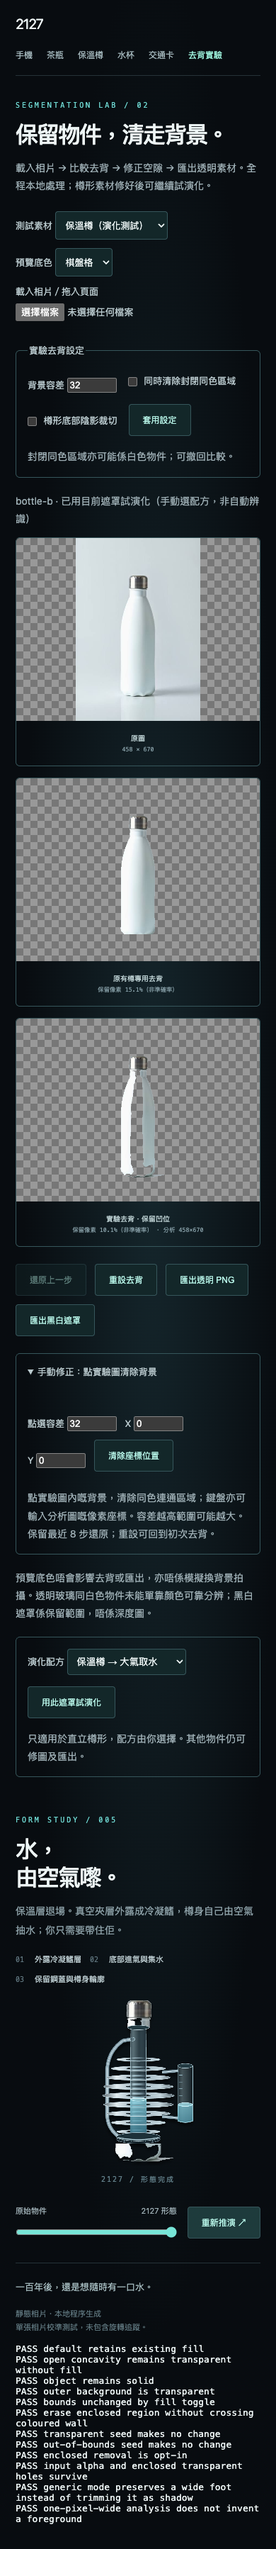
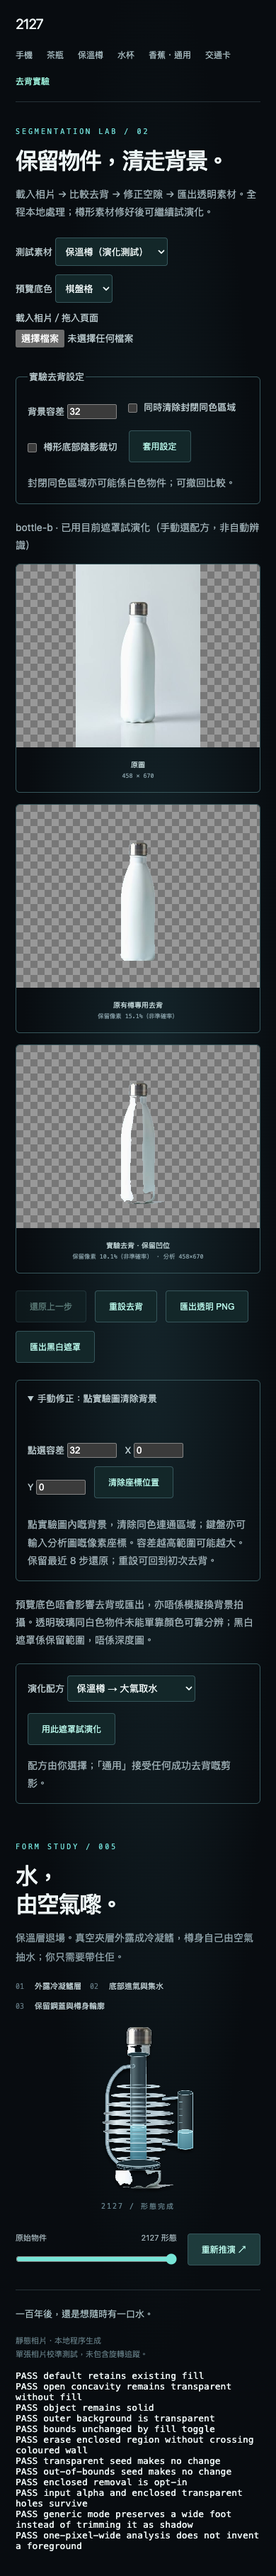
feat(studies): any photo that segments now evolves
新增 generic() 通用配方：唔靠配方，靠量到嘅剪影。沿長軸取平滑橫切面
（maskProfile + 3 次平滑），保留兩端相片、中間外殼退場、沿原輪廓長出
承力外框（會超出原剪影）同縮到一半橫切面嘅內核；內核表面係原相本身。

唔係自動辨識：士多啤梨 0.91、玩具 0.97、水杯 0.73 全部落喺闊身容器
比例範圍，淨靠比例會套錯配方。所以新相片一律預設通用配方，專屬配方
人手揀。守門只再拒絕去背失敗。

通用路徑用唔填行嘅去背（填行係直立樽專用修補，會填實香蕉凹位），
並且同時按闊同高縮放，因為外框企喺原輪廓外面。

新入口 studies.html?object=banana。
lab 12 + studies 51 + phone 9 + legacy 67 = 139 全綠。

Claude-Session: https://claude.ai/code/session_01Xbqts8uz557AYsPHVhYA2D

diff --git a/studies.html b/studies.html
@@ -13,27 +13,27 @@
 <link rel="stylesheet" href="calibration.css">
 </head>
 <body><main>
-<header><div class="mark">2127<span>100 YEARS LATER</span></div><nav aria-label="物件測試" style="display:flex;gap:20px;flex-wrap:wrap"><a href="phone.html">手機</a><a href="studies.html?object=bottle" id="nav-bottle">茶瓶</a><a href="studies.html?object=bottle-b" id="nav-bottle-b">保溫樽</a><a href="studies.html?object=cup" id="nav-cup">水杯</a><a href="studies.html?object=suica" id="nav-suica">交通卡</a><a href="studies.html?lab=1" id="nav-lab">去背實驗</a></nav></header>
+<header><div class="mark">2127<span>100 YEARS LATER</span></div><nav aria-label="物件測試" style="display:flex;gap:20px;flex-wrap:wrap"><a href="phone.html">手機</a><a href="studies.html?object=bottle" id="nav-bottle">茶瓶</a><a href="studies.html?object=bottle-b" id="nav-bottle-b">保溫樽</a><a href="studies.html?object=cup" id="nav-cup">水杯</a><a href="studies.html?object=banana" id="nav-banana">香蕉・通用</a><a href="studies.html?object=suica" id="nav-suica">交通卡</a><a href="studies.html?lab=1" id="nav-lab">去背實驗</a></nav></header>
 <section class="hero"><div class="copy"><div class="eyebrow">FORM STUDY / <span id="number">003</span></div><h1 id="title"></h1><p class="intro" id="intro"></p><div class="specs" id="specs"></div></div>
 <figure><canvas id="view" width="1456" height="970" role="img" aria-label="原物件與未來形態比較"></canvas><figcaption id="phase" aria-live="polite">準備形態推演</figcaption></figure></section>
 <div class="controls"><div class="compare"><div class="labels"><label for="evolution">原始物件</label><span>2127 形態</span></div><input id="evolution" aria-label="原始物件與 2127 形態比較" type="range" min="0" max="100" value="100" disabled></div><button id="replay" disabled>重新推演 ↗</button></div>
 <div class="controls" id="loadwrap" hidden style="flex-wrap:wrap;gap:14px">
 <label class="filebtn">放一張新相片入嚟 …<input type="file" id="file" accept="image/jpeg,image/png,image/webp" hidden></label>
-<span style="display:flex;align-items:center;gap:8px;flex-wrap:wrap"><span class="hint">配方</span><button class="rbtn" data-r="bottle" aria-pressed="false">茶瓶・培養循環</button><button class="rbtn" data-r="flask" aria-pressed="false">鋼樽・大氣取水</button><button class="rbtn" data-r="cup" aria-pressed="false">闊身容器・懸掛內膽</button></span>
-<span class="hint" id="loadhint">或直接將相片拖入頁面・單一物件・乾淨漸層背景・配方要自己揀</span></div>
+<span style="display:flex;align-items:center;gap:8px;flex-wrap:wrap"><span class="hint">配方</span><button class="rbtn" data-r="bottle" aria-pressed="false">茶瓶・培養循環</button><button class="rbtn" data-r="flask" aria-pressed="false">鋼樽・大氣取水</button><button class="rbtn" data-r="cup" aria-pressed="false">闊身容器・懸掛內膽</button><button class="rbtn" data-r="generic" aria-pressed="false">通用・輪廓推演</button></span>
+<span class="hint" id="loadhint">或直接將相片拖入頁面・新相片預設用通用配方・專屬配方要自己揀</span></div>
 <div class="controls" id="elevwrap" hidden><div class="compare"><div class="labels"><label for="elevation">鏡頭：正面</label><span>斜視 45°</span></div><input id="elevation" aria-label="鏡頭仰角" type="range" min="0" max="100" value="0"></div><span style="font:10px ui-monospace,monospace;color:#5f757e;white-space:nowrap">原型・程序幾何重新投影</span></div>
 <footer><p class="kept" id="kept"></p><p>靜態相片・本地程序生成<br>單張相片校準測試，未包含旋轉追蹤。</p></footer><pre id="checks" hidden></pre>
 </main><script src="segmentation.js"></script><script src="calibration.js"></script><script>
 'use strict';
-const SRC={bottle:'assets/bottle-source.webp','bottle-b':'assets/bottle-b-source.jpeg',cup:'assets/segmentation/water.jpg',suica:'assets/suica-source.jpg'};
+const SRC={bottle:'assets/bottle-source.webp','bottle-b':'assets/bottle-b-source.jpeg',cup:'assets/segmentation/water.jpg',banana:'assets/segmentation/banana.jpeg',suica:'assets/suica-source.jpg'};
 const Q=new URLSearchParams(location.search),kind=!Q.has('lab')&&SRC[Q.get('object')]?Q.get('object'):'bottle',family=kind==='suica'?'suica':'bottle';
-const COPY={cup:{number:'006',title:'一啖嘅<br>溫度。',intro:'杯壁退場。剩返就口嘅杯緣同承座，中間換成懸掛內膽同三條調溫臂；飲品淨係喺你手上嗰陣先保住溫度。',specs:['懸掛式內膽','三臂調溫葉片','保留杯緣與承座'],kept:'一百年後，還是想飲啖啱溫度嘅嘢。'},flask:{number:'005',title:'水，<br>由空氣嚟。',intro:'保溫層退場。真空夾層外露成冷凝鰭，樽身自己由空氣抽水；你只需要帶住佢。',specs:['外露冷凝鰭層','底部進氣與集水','保留鋼蓋與樽身輪廓'],kept:'一百年後，還是想隨時有一口水。'},bottle:{number:'003',title:'一口茶，<br>一個循環。',intro:'拋棄式瓶身退場。保留瓶口與茶液，讓培養、過濾與補水成為同一件容器。',specs:['循環培養艙','相連過濾莢','保留瓶口與茶液'],kept:'一百年後，還是為了那一口茶。'},suica:{number:'004',title:'通行，<br>隨身而行。',intro:'卡片縮成腕上的通行核心。玉色帶體環抱手腕，熟悉的識別面陪你走過下一道門。',specs:['開口式腕環','無接觸感應端','保留原卡識別面'],kept:'一百年後，還是想順利回家。'}};
+const COPY={generic:{number:'000',title:'冇專屬配方，<br>都有下一代。',intro:'呢件嘢未有為佢寫嘅配方，所以只用量到嘅輪廓推演：兩端保留原件，中間外殼退場，換成沿住原輪廓長出嘅承力骨架同一個縮細嘅內核。',specs:['由輪廓量出嘅骨架','保留兩端原件','外露縮細內核'],kept:'一百年後，佢仲係做返同一件事。'},cup:{number:'006',title:'一啖嘅<br>溫度。',intro:'杯壁退場。剩返就口嘅杯緣同承座，中間換成懸掛內膽同三條調溫臂；飲品淨係喺你手上嗰陣先保住溫度。',specs:['懸掛式內膽','三臂調溫葉片','保留杯緣與承座'],kept:'一百年後，還是想飲啖啱溫度嘅嘢。'},flask:{number:'005',title:'水，<br>由空氣嚟。',intro:'保溫層退場。真空夾層外露成冷凝鰭，樽身自己由空氣抽水；你只需要帶住佢。',specs:['外露冷凝鰭層','底部進氣與集水','保留鋼蓋與樽身輪廓'],kept:'一百年後，還是想隨時有一口水。'},bottle:{number:'003',title:'一口茶，<br>一個循環。',intro:'拋棄式瓶身退場。保留瓶口與茶液，讓培養、過濾與補水成為同一件容器。',specs:['循環培養艙','相連過濾莢','保留瓶口與茶液'],kept:'一百年後，還是為了那一口茶。'},suica:{number:'004',title:'通行，<br>隨身而行。',intro:'卡片縮成腕上的通行核心。玉色帶體環抱手腕，熟悉的識別面陪你走過下一道門。',specs:['開口式腕環','無接觸感應端','保留原卡識別面'],kept:'一百年後，還是想順利回家。'}};
 function setCopy(type){const copy=COPY[type];
 for(const id of ['number','intro','kept'])document.getElementById(id).textContent=copy[id];
 document.getElementById('title').innerHTML=copy.title;
 document.getElementById('specs').innerHTML=copy.specs.map((s,i)=>`<div><span>0${i+1}</span>${s}</div>`).join('');
 }
-setCopy(kind==='bottle-b'?'flask':kind==='cup'?'cup':family==='bottle'?'bottle':'suica');
+setCopy(kind==='bottle-b'?'flask':kind==='cup'?'cup':kind==='banana'?'generic':family==='bottle'?'bottle':'suica');
 document.getElementById('nav-'+kind).style.color='#9ef4de';document.getElementById('nav-'+kind).setAttribute('aria-current','page');
 const canvas=document.getElementById('view'),ctx=canvas.getContext('2d'),slider=document.getElementById('evolution'),replay=document.getElementById('replay'),phase=document.getElementById('phase');
 let photo=new Image();const source=document.createElement('canvas'),future=document.createElement('canvas');
@@ -127,14 +127,16 @@ function cuff(){
  for(let i=0;i<5;i++)line(c,`M-80 ${i*14+8} L-73 ${i*14+8}`,'#b7d89a',1.2);
  c.restore();
 }
-let anchors=null,recipe=kind==='bottle-b'?'flask':kind==='cup'?'cup':'bottle';
+let anchors=null,place=null,autoRecipe=false,recipe=kind==='bottle-b'?'flask':kind==='cup'?'cup':kind==='banana'?'generic':'bottle';
+function syncRecipe(){setCopy(recipe);
+ for(const b of document.querySelectorAll('#loadwrap .rbtn'))b.setAttribute('aria-pressed',String(b.dataset.r===recipe));}
 const E0=Math.asin(.085),E1=45*Math.PI/180;
 // Redraw the future canvas from scratch. build() ran once and each renderer calls scale(2,2),
 // so the transform must be reset here or repeated elevation redraws would compound it (gotcha #9).
 function renderFuture(elev=E0){
  const c=future.getContext('2d');
  c.setTransform(1,0,0,1,0,0);c.clearRect(0,0,1456,970);
- if(family!=='bottle')cuff();else if(recipe==='cup')cup();else if(recipe==='flask')flask(elev);else bottle();
+ if(family!=='bottle')cuff();else if(recipe==='generic')generic();else if(recipe==='cup')cup();else if(recipe==='flask')flask(elev);else bottle();
 }
 // Photo B is a vacuum steel flask: it has already solved the disposable bottle's problem, so it
 // gets its own evolution rather than the tea recipe. Its defining property is holding a state
@@ -246,7 +248,69 @@ function cup(){
 // it conflates "background not removed" with "object simply framed tight", which would reject a
 // correctly segmented photo. Reaching both side borders is the signal that the frame, not an
 // object, is what survived; the loose area bound catches a mask that hugs one edge only.
-const RANGE={bottle:[.15,.6],flask:[.15,.6],cup:[.6,1.15]},RNAME={bottle:'茶瓶',flask:'保溫樽',cup:'闊身容器'};
+// No authored artwork exists for an object outside the known classes, so its evolution is driven
+// by the only thing actually measured: its own silhouette. Both ends of the long axis stay
+// photographed, the shell between them goes, and what replaces it is a shrunken core inside an
+// exo-frame that traces and overshoots the original outline. This is the deliberate house form for
+// "not one of the authored classes" — it is not a claim that the object was recognised.
+function generic(){
+ const c=future.getContext('2d');c.scale(2,2);
+ const{k,dx,dy}=place,long=(place.base-place.top)>=place.hw*2?'y':'x';
+ const raw=maskProfile(anchors.canvas,long);if(raw.length<8)return;
+ const pr=raw.map(p=>long==='y'?{a:p.a*k+dy,lo:p.lo*k+dx,hi:p.hi*k+dx}:{a:p.a*k+dx,lo:p.lo*k+dy,hi:p.hi*k+dy});
+ const A0=pr[0].a,A1=pr[pr.length-1].a,band=Math.max(20,(A1-A0)*.15),span=A1-A0;
+ const XY=(a,b)=>long==='y'?[b,a]:[a,b];
+ const mid=p=>(p.lo+p.hi)/2,half=p=>Math.max(3,(p.hi-p.lo)/2*.5);
+ const pearl=grad(c,150,90,590,410,[[0,'#2b3a44'],[.26,'#e2edf1'],[.58,'#93a9b4'],[1,'#25313a']]);
+ const skin=grad(c,150,90,590,410,[[0,'#1d2c34'],[.3,'#9fbcc6'],[.7,'#54707c'],[1,'#182329']]);
+ const strut=(d,w=7)=>{line(c,d,'#16232a',w+3);line(c,d,'#8ea7b3',w);line(c,d,'#dcecf2',1.1);};
+ const poly=(pts)=>{const p=new Path2D();pts.forEach(([x,y],i)=>i?p.lineTo(x,y):p.moveTo(x,y));p.closePath();return p;};
+ // Exo-frame: two ribbons following the measured outline, standing just outside where the old
+ // shell used to be. They run the full length, so the surviving ends hold them at both extremes.
+ const off=Math.min(14,Math.max(5,span*.022));
+ for(const sgn of [-1,1]){
+  const outer=pr.map(p=>XY(p.a,(sgn<0?p.lo:p.hi)+sgn*off*2.4));
+  const inner=pr.map(p=>XY(p.a,(sgn<0?p.lo:p.hi)+sgn*off*.4)).reverse();
+  shape(c,poly(outer.concat(inner)),pearl,'#cfe3ea',.8);
+  const glow=new Path2D();pr.forEach((p,i)=>{const[x,y]=XY(p.a,(sgn<0?p.lo:p.hi)+sgn*off*1.5);i?glow.lineTo(x,y):glow.moveTo(x,y);});
+  line(c,glow,'#a9e6f0',1.2,3);
+ }
+ // Cross members tie the frame to the core, so nothing in the new structure floats free.
+ for(let i=3;i<pr.length-3;i+=6){const p=pr[i];
+  for(const sgn of [-1,1]){const e=sgn<0?p.lo:p.hi,m=mid(p)+sgn*half(p);
+   strut(`M${XY(p.a,e+sgn*off*1.2).join(' ')} L${XY(p.a,m).join(' ')}`,5);}}
+ // Two unequal modules seated on the frame at measured stations.
+ for(const[t,sgn,f]of [[.34,-1,.9],[.63,1,1.25]]){
+  const p=pr[Math.round(t*(pr.length-1))],e=sgn<0?p.lo:p.hi,r=Math.min(26,Math.max(9,span*.038))*f;
+  const[x,y]=XY(p.a,e+sgn*(off*2.4+r*.85));
+  strut(`M${XY(p.a,e+sgn*8).join(' ')} L${x} ${y}`,6);
+  const pod=new Path2D();pod.roundRect(x-r,y-r*.78,r*2,r*1.56,r*.45);
+  shape(c,pod,pearl,'#c3dae3',.9);
+  const ins=new Path2D();ins.roundRect(x-r*.66,y-r*.46,r*1.32,r*.92,r*.28);shape(c,ins,skin,'#cfe9f0',.7);
+  for(let j=0;j<3;j++)line(c,`M${x-r*.5} ${y-r*.22+j*r*.22} L${x+r*.5} ${y-r*.22+j*r*.22}`,'#2c4652',1.4);}
+ // The core: the same object, kept but reduced to half its cross-section. Its surface is the
+ // photograph itself, so the lineage stays visible instead of being replaced by invented material.
+ const inner=pr.filter(p=>p.a>=A0+band*.55&&p.a<=A1-band*.55);
+ if(inner.length>2){
+  const core=poly(inner.map(p=>XY(p.a,mid(p)-half(p))).concat(inner.map(p=>XY(p.a,mid(p)+half(p))).reverse()));
+  c.save();c.clip(core);c.drawImage(source,0,0,728,485);c.fillStyle='#12303ea6';c.fillRect(0,0,728,485);c.restore();
+  shape(c,core,null,'#cbe4ec',1.3);
+  for(let i=2;i<inner.length-2;i+=3){const p=inner[i];
+   line(c,`M${XY(p.a,mid(p)-half(p)*.86).join(' ')} L${XY(p.a,mid(p)+half(p)*.86).join(' ')}`,'#8fc9d980',1.4);}
+  const spine=new Path2D();inner.forEach((p,i)=>{const[x,y]=XY(p.a,mid(p));i?spine.lineTo(x,y):spine.moveTo(x,y);});
+  line(c,spine,'#a9e6f0',1.6,4);}
+ // The two surviving ends, drawn last so every new member reads as seated into them.
+ const keep=(a0,a1)=>{c.save();c.beginPath();long==='y'?c.rect(0,a0,728,a1-a0):c.rect(a0,0,a1-a0,485);
+  c.clip();c.drawImage(source,0,0,728,485);c.restore();};
+ keep(A0-12,A0+band);keep(A1-band,A1+12);
+ for(const a of [A0+band,A1-band]){const p=pr.reduce((m,q)=>Math.abs(q.a-a)<Math.abs(m.a-a)?q:m,pr[0]);
+  line(c,`M${XY(a,p.lo-4).join(' ')} L${XY(a,p.hi+4).join(' ')}`,'#bfe6f0',2,3);}
+}
+const RANGE={bottle:[.15,.6],flask:[.15,.6],cup:[.6,1.15],generic:[.02,50]},RNAME={bottle:'茶瓶',flask:'保溫樽',cup:'闊身容器',generic:'通用'};
+// Any photo that segments must produce something, so a new photo starts on the generic evolution.
+// It is NOT auto-classified: measured on this repo's own samples, a strawberry, a toy and a glass
+// of water all land inside the wide-container range, so proportions alone would confidently apply
+// the wrong class. The authored recipes stay one deliberate click away.
 function bottleGate(s,h,rec){
  if(!s)return '搵唔到前景：物件同背景顏色太接近';
  if(s.bothSides)return '剪影掂到左右兩邊畫框：背景未清走（可喺實驗模式修圖）';
@@ -264,12 +328,20 @@ function build(prepared=null){
  const c=source.getContext('2d');
  c.setTransform(1,0,0,1,0,0);c.clearRect(0,0,1456,970);c.scale(2,2);
  if(family==='bottle'){
-  // Reject anything that is not one upright bottle-shaped silhouette rather than rendering nonsense.
-  const s=prepared||segment(photo),why=bottleGate(s,photo.naturalHeight,recipe);if(why)return why;
+  // Reject a failed segmentation; a silhouette outside the authored classes is not a failure.
+  if(autoRecipe&&recipe!=='generic'){recipe='generic';syncRecipe();}
+  // Row-span refill exists to close an upright bottle's reflection leak; on an unclassified shape
+  // it bridges real concavities (a banana's inner curve fills solid), so the generic path is off.
+  const s=prepared||segment(photo,recipe!=='generic');
+  const why=bottleGate(s,photo.naturalHeight,recipe);if(why)return why;
   // bottle()'s geometry is drawn for a bottle whose top/base/centre sit at 22.3/450.5/364.8.
   // Placing any measured bottle onto those anchors reuses that artwork without re-authoring it.
-  const k=428.2/(s.base-s.top);
-  c.drawImage(s.canvas,364.8-s.cx*k,22.3-s.top*k,s.canvas.width*k,s.canvas.height*k);
+  // The generic renderer has no authored proportions to hit, so it fits the frame both ways
+  // instead: a wide object scaled to full height would run off the canvas.
+  const wide=recipe==='generic',k=wide?Math.min(366/(s.base-s.top),524/s.width):428.2/(s.base-s.top);
+  const dx=364.8-s.cx*k,dy=wide?236.4-(s.top+s.base)/2*k:22.3-s.top*k;
+  c.drawImage(s.canvas,dx,dy,s.canvas.width*k,s.canvas.height*k);
+  place={k,dx,dy,top:s.top*k+dy,base:s.base*k+dy,hw:s.width*k/2};
   anchors=s;renderFuture();
  }else{
   c.save();const clip=new Path2D();clip.roundRect(83,85,562,352,19);c.clip(clip);c.drawImage(photo,155,190,938,588,83,85,562,352);c.restore();renderFuture();
@@ -294,7 +366,14 @@ function selfTest(){const rows=[],check=(n,ok)=>rows.push(`${ok?'PASS':'FAIL'} $
   if(kind==='bottle'){const k=428.2/(anchors.base-anchors.top);
    check('calibrated fixture still lands on its authored placement',Math.abs(364.8-anchors.cx*k-150.6)<3&&Math.abs(photo.naturalWidth*k-428.8)<6);}}
  else check('calibrated source dimensions',photo.naturalWidth===1280&&photo.naturalHeight===961);check('source background is transparent',a[3]===0&&count>1000);check('original solid area physically removed',removed/count>(family==='bottle'?.12:.3));if(family==='bottle')check('new structures extend beyond source',added/count>.05);else{const alpha=(x,y)=>b[(y*2*1456+x*2)*4+3];check('open cuff has solid band and credential mount, clear side gap',alpha(358,125)>200&&alpha(312,330)>200&&alpha(581,229)===0);}
- const hole=kind==='bottle-b'?[314,160]:kind==='cup'?[250,300]:family==='bottle'?[309,280]:[365,228],k=(hole[1]*2*1456+hole[0]*2)*4+3;check('former body contains actual transparent negative space',a[k]>200&&b[k]===0);draw();check('final composite removes old body',ctx.getImageData(0,0,1456,970).data[k]<30);check('controls enabled',!slider.disabled&&!replay.disabled);
+ // The generic form has no authored coordinate to probe, so probe the first pixel it removed.
+ const hole=kind==='bottle-b'?[314,160]:kind==='cup'?[250,300]:family==='bottle'?[309,280]:[365,228];
+ let k=(hole[1]*2*1456+hole[0]*2)*4+3;
+ // Clearance of 32px, because draw() casts a 15px-blurred shadow offset 14px down: a hole
+ // narrower than that is filled by the shadow of its own frame in the final composite.
+ if(recipe==='generic'){const at=(x,y)=>(y*1456+x)*4+3;
+  search:for(let y=36;y<934;y+=4)for(let x=36;x<1420;x+=4){const i=at(x,y);
+   if(a[i]>200&&!b[i]&&!b[at(x-32,y)]&&!b[at(x+32,y)]&&!b[at(x,y-32)]&&!b[at(x,y+32)]){k=i;break search;}}}check('former body contains actual transparent negative space',a[k]>200&&b[k]===0);draw();check('final composite removes old body',ctx.getImageData(0,0,1456,970).data[k]<30);check('controls enabled',!slider.disabled&&!replay.disabled);
  if(family==='bottle'){
   // build() is now re-entrant (file input can load repeatedly). It applies scale(2,2), so without
   // the reset at its head a second load would draw the source at half size and every anchor-driven
@@ -350,7 +429,7 @@ function loadFile(file){
   URL.revokeObjectURL(url);            // release before any early return below
   if(img.naturalWidth<200||img.naturalHeight<200)return fail('解像度太低（每邊至少 200px）');
   if(img.naturalWidth*img.naturalHeight>40e6)return fail('像素太多（上限 4000 萬）');
-  photo=img;
+  photo=img;autoRecipe=true;
   const t=performance.now();
   const why=build();if(why!==true)return fail('不在支援範圍——'+why);
   document.getElementById('loadhint').textContent=
@@ -366,7 +445,7 @@ if(family==='bottle'&&!Q.has('lab')){
  for(const b of wrap.querySelectorAll('.rbtn')){
   b.setAttribute('aria-pressed',String(b.dataset.r===recipe));
   b.addEventListener('click',()=>{
-   recipe=b.dataset.r;setCopy(recipe);
+   recipe=b.dataset.r;autoRecipe=false;setCopy(recipe);
    for(const o of wrap.querySelectorAll('.rbtn'))o.setAttribute('aria-pressed',String(o.dataset.r===recipe));
    // Each recipe has its own supported proportions, so switching must re-run the gate:
    // a tea bottle silhouette is not a cup and must be rejected rather than drawn as one.
@@ -418,7 +497,7 @@ function startLab(){
  <label>點選容差 <input id="lab-tolerance" type="number" required min="0" max="100" value="32"></label>
  <label>X <input id="lab-x" type="number" required min="0" value="0"></label><label>Y <input id="lab-y" type="number" required min="0" value="0"></label><button id="lab-erase" disabled>清除座標位置</button></div>
  <p class="lab-note" id="lab-help">點實驗圖內嘅背景，清除同色連通區域；鍵盤亦可輸入分析圖嘅像素座標。容差越高範圍可能越大。保留最近 8 步還原；重設可回到初次去背。</p></details>
- <p class="lab-note">預覽底色唔會影響去背或匯出，亦唔係模擬換背景拍攝。透明玻璃同白色物件未能單靠顏色可靠分辨；黑白遮罩係保留範圍，唔係深度圖。</p><div class="lab-settings"><label>演化配方 <select id="lab-recipe"><option value="bottle">即棄茶瓶 → 循環培養</option><option value="flask">保溫樽 → 大氣取水</option><option value="cup">闊身容器 → 懸掛內膽</option></select></label><button id="lab-evolve" disabled>用此遮罩試演化</button><span class="lab-note">只適用於直立樽形，配方由你選擇。其他物件仍可修圖及匯出。</span></div><section id="lab-evolution" hidden aria-label="樽形演化預覽"></section><pre id="lab-checks" hidden></pre>`;
+ <p class="lab-note">預覽底色唔會影響去背或匯出，亦唔係模擬換背景拍攝。透明玻璃同白色物件未能單靠顏色可靠分辨；黑白遮罩係保留範圍，唔係深度圖。</p><div class="lab-settings"><label>演化配方 <select id="lab-recipe"><option value="bottle">即棄茶瓶 → 循環培養</option><option value="flask">保溫樽 → 大氣取水</option><option value="cup">闊身容器 → 懸掛內膽</option><option value="generic">冇專屬配方 → 輪廓推演</option></select></label><button id="lab-evolve" disabled>用此遮罩試演化</button><span class="lab-note">配方由你選擇；「通用」接受任何成功去背嘅剪影。</span></div><section id="lab-evolution" hidden aria-label="樽形演化預覽"></section><pre id="lab-checks" hidden></pre>`;
  document.querySelector('main').append(lab);
  const get=id=>document.getElementById('lab-'+id),status=get('status'),sample=get('sample'),editable=get('view-2'),g=editable.getContext('2d');
  const xInput=get('x'),yInput=get('y'),tolerance=get('tolerance'),bgTolerance=get('bg-tolerance'),enclosed=get('enclosed'),shadow=get('shadow');
@@ -509,7 +588,7 @@ function startLab(){
   if(!input)return;const version=revision,name=filename,img=new Image();img.src=editable.toDataURL();
   try{await img.decode();if(version!==revision)return;
    const geometry=maskGeometry(editable);
-   photo=img;recipe=get('recipe').value;setCopy(recipe);
+   photo=img;autoRecipe=false;recipe=get('recipe').value;setCopy(recipe);
    const why=geometry?build(geometry):bottleGate(null,0,recipe);
    if(why!==true){fail('不在支援範圍——'+why);message(`此遮罩未能套用樽配方：${why}；請繼續修圖或匯出`,true);preview.hidden=true;return;}
    preview.hidden=false;show();message(`${name} · 已用目前遮罩試演化（手動選配方，非自動辨識）`);

diff --git a/segmentation.js b/segmentation.js
@@ -56,3 +56,28 @@ function maskGeometry(canvas){
  if(top<0)return null;centers.sort((a,b)=>a-b);
  return{canvas,top,base,cx:centers[centers.length>>1],width,kept:kept/(w*h),bothSides:onL&&onR};
 }
+// Cross-sections along the object's long axis, for renderers that have no authored artwork to
+// fall back on: the silhouette itself is the only thing known about an unclassified object.
+// Sampled to n bands and averaged over neighbours, because a raw photo mask edge reads as noise.
+function maskProfile(canvas,long='y',n=40){
+ const w=canvas.width,h=canvas.height,d=canvas.getContext('2d').getImageData(0,0,w,h).data;
+ const M=long==='y'?h:w,C=long==='y'?w:h,rows=[];
+ for(let i=0;i<M;i++){let lo=-1,hi=-1;
+  for(let j=0;j<C;j++)if(d[(long==='y'?i*w+j:j*w+i)*4+3]){if(lo<0)lo=j;hi=j;}
+  if(lo>=0)rows.push({a:i,lo,hi});}
+ if(rows.length<n)return rows;
+ const out=[];
+ for(let s=0;s<n;s++){const idx=Math.round(s/(n-1)*(rows.length-1));
+  let lo=0,hi=0,cnt=0;
+  for(let j=Math.max(0,idx-2);j<=Math.min(rows.length-1,idx+2);j++){lo+=rows[j].lo;hi+=rows[j].hi;cnt++;}
+  out.push({a:rows[idx].a,lo:lo/cnt,hi:hi/cnt});}
+ // Three [1,2,3,2,1] passes over the sampled bands. A photo mask edge carries residue and steps;
+ // traced literally it reads as noise rather than as a designed member, and a shape whose
+ // segmentation was mediocre produces a jagged frame instead of an obviously wrong one.
+ for(let pass=0;pass<3;pass++)for(const key of ['lo','hi']){
+  const v=out.map(p=>p[key]);
+  for(let i=0;i<out.length;i++){let sum=0,wt=0;
+   for(let j=-2;j<=2;j++){const q=v[i+j];if(q===undefined)continue;const w=3-Math.abs(j);sum+=q*w;wt+=w;}
+   out[i][key]=sum/wt;}}
+ return out;
+}

diff --git a/HANDOFF.md b/HANDOFF.md
@@ -7,14 +7,15 @@ Updated: 2026-09-08 · Workspace: `/Users/fatboy/item2127`
 The user authorized continued implementation, chose **a few everyday-object classes** rather than arbitrary food/toy evolution, and chose **offline-first operation**. No physical hardware exists for this exploration. All runtime assets are local; no model or cloud API was added.
 
 - `studies.html?lab=1`: compare original / bottle-specific segmentation / editable generic segmentation. Configurable colour tolerance, opt-in enclosed-region removal, optional bottle-shadow trim, eight-step undo, reset, drag/drop, transparent PNG and grayscale-mask export. Working/export resolution is capped at 1200px on the longest side. Existing input alpha is preserved.
+- **Any photo that segments now produces an evolution.** A new photo loaded through the file input starts on `generic()`, a silhouette-driven recipe: it measures smoothed cross-sections of the mask along the object's long axis, keeps both ends of the photo, removes the shell between them, and builds an exo-frame that traces and overshoots the measured outline around a core reduced to half its cross-section, whose surface is the photograph itself. It is not auto-classification: measured here, a strawberry, a toy and a glass of water all fall inside the wide-container proportions, so proportions alone would confidently apply the wrong class. The authored recipes stay one click away. `studies.html?object=banana` is its baseline page.
 - `studies.html?object=cup`: a third evolution recipe for the wide-container class (width/height 0.6-1.15), authored against `assets/segmentation/water.jpg`. The drinking rim and foot are kept from the photo, the wall is removed, and a suspended inner vessel on three tempering arms is added. Unlike the two bottle renderers its geometry is derived from the mask's measured half-width, not from one fixture's pixel columns. Recipes are still chosen by hand; each has its own supported proportions and picking the wrong one is rejected with the reason and the recipe that fits.
 - Edited masks can feed the existing tea-bottle, steel-flask or wide-container renderer directly. Unsupported geometry keeps the editor available. Editing or replacing the mask hides stale evolution results. Recipe selection also updates the narrative.
 - `phone.html` and `studies.html?object=suica`: upload a photo, mark four corners by pointer or coordinates, apply the existing artwork, or restore the original fixture. `calibration.js` shares the phone's projective map and inverse, alpha-aware resampling, validation and UI. `calibration.css` styles the shared controls.
 - `segmentation.js`: shared segmentation and mask geometry. Local convex-outline corner proposals work on the card fixture; the phone fixture and banana are rejected rather than weakening the quadrilateral fit check. Proposals require human inspection and do not recognize object identity.
-- Validation: **129 page self-checks**, plus the real UI workflow in `tests/browser.cjs`. See `tests/README.md` for prerequisites and invocation. Rejections name the failing gate condition (aspect / silhouette touching both frame edges / retained area / too small) rather than one generic line; evidence in `previews/input-tests/reject-reasons.json`. Latest evidence: `previews/input-tests/workflow-results.json`, calibrated phone/card screenshots, mask exports and bottle bridge screenshots.
+- Validation: **139 page self-checks**, plus the real UI workflow in `tests/browser.cjs`. See `tests/README.md` for prerequisites and invocation. Rejections name the failing gate condition (aspect / silhouette touching both frame edges / retained area / too small) rather than one generic line; evidence in `previews/input-tests/reject-reasons.json`. Latest evidence: `previews/input-tests/workflow-results.json`, calibrated phone/card screenshots, mask exports and bottle bridge screenshots.
 - Evidence limits: calibration was tested with translated/padded original fixtures, not a new physical phone/card. Glass bright regions are incorrectly removed by aggressive colour-keying. This is reusable local preparation and authored evolution, not arbitrary-object generation or exhibition validation.
 
-Next work should improve robustness within these four authored directions using additional in-class photos. Keep manual correction and explicit rejection until automated geometry is supported by evidence. Camera capture, printing, exhibition cycling and second-view capture remain unimplemented or unvalidated; do not revive rotation work before the still-image flow is ready.
+The generic recipe's output quality is bounded by segmentation quality: a photo whose background survives (the strawberry's top patch and contact shadow here) produces a frame that traces that error. Next work should improve segmentation on such photos, and add authored recipes for classes worth authoring, rather than widening claims about the generic one. It renders a house form for an unrecognised object; it does not know what the object is. Keep manual correction and explicit rejection until automated geometry is supported by evidence. Camera capture, printing, exhibition cycling and second-view capture remain unimplemented or unvalidated; do not revive rotation work before the still-image flow is ready.
 
 ## Historical planning context (2026-09-06)
 

diff --git a/memory-bank/20-status.md b/memory-bank/20-status.md
@@ -2,6 +2,24 @@
 
 最後更新：2026-09-08
 
+## 通用配方：任何相都有演化（2026-09-08）
+
+- 目標改為「放張相入去就見到一百年後」。新增 `generic()`：**唔靠配方，靠量到嘅剪影**。
+  沿物件長軸取平滑後嘅橫切面（`maskProfile()`，3 次 [1,2,3,2,1] 平滑），保留長軸兩端嘅相片、
+  中間外殼退場、沿住原輪廓長出承力外框（會超出原剪影）同一個縮到一半橫切面嘅內核；
+  內核表面就係原相本身，所以血緣睇得見。
+- **唔係自動辨識。** 實測 repo 內嘅士多啤梨 0.91、玩具 0.97、水杯 0.73 全部落喺「闊身容器」
+  比例範圍內 —— 淨靠比例會好有信心咁套錯配方。所以新相片一律預設用通用配方，
+  專屬配方要人手㩒一下。守門只再拒絕**去背失敗**（搵唔到前景／掂到左右畫框／保留過大／太細）。
+- 通用路徑改用**唔填行**嘅去背：填行係直立樽專用嘅修補，喺香蕉凹位會填實。
+- 版面：通用配方會同時按闊同高縮放（366/524），因為外框同模組會企喺原輪廓外面。
+- 新入口 `studies.html?object=banana`（fixture 用 repo 內已有嘅 `assets/segmentation/banana.jpeg`）。
+- 檢查：lab 12 + studies 51（茶瓶 11／鋼樽 13／水杯 10／香蕉 10／卡片 7）+ phone 9 + legacy 67 = **139 全綠**，
+  另加「三張課外相都要落通用配方並且真係有畫嘢」嘅 UI 檢查。預覽 `previews/generic-future.png`、
+  `previews/input-tests/generic-water.png`。
+- **天花板**：通用配方嘅出品質素受制於去背質素 —— 士多啤梨上方嘅背景塊同底部陰影會被外框照住描。
+  佢係「未分類物件」嘅統一造型語言，唔係知道嗰件係乜。
+
 ## 第三個配方：闊身容器（2026-09-08）
 
 - 使用者選定「加第三個配方」。新增 `cup()`：闊身容器（水杯／杯類，闊高比 0.6–1.15），fixture 用已在 repo 的 `assets/segmentation/water.jpg`，入口 `studies.html?object=cup`，導覽加「水杯」。

diff --git a/tests/README.md b/tests/README.md
@@ -6,6 +6,7 @@ No application build or new runtime dependency is needed. Serve the repository w
 - `studies.html?object=bottle&test=1`: 11 checks.
 - `studies.html?object=bottle-b&test=1`: 13 checks.
 - `studies.html?object=cup&test=1`: 10 checks.
+- `studies.html?object=banana&test=1`: 10 checks (generic silhouette-driven recipe).
 - `studies.html?object=suica&test=1`: 7 checks.
 - `phone.html?test=1`: 9 checks.
 - `index.html?test=1`: 67 legacy checks.
@@ -24,4 +25,4 @@ If Playwright is supplied outside this repository, set `PLAYWRIGHT_MODULE` to th
 PLAYWRIGHT_MODULE=/Users/fatboy/.cache/codex-runtimes/codex-primary-runtime/dependencies/node/node_modules/playwright node tests/browser.cjs
 ```
 
-Coverage includes the wrong-recipe rejection on the cup study, opt-in enclosed-region cleanup, reversible reset, PNG download/alpha round-trip, invalid inputs, rapid sample switching, unsupported-mask recovery, both prepared-mask bottle recipes, calibrated phone/card uploads, local card corner proposals, curved-outline rejection, baseline restoration and 390px layout. Calibration uses translated/padded fixture photos, not new physical objects. Quantitative geometry checks do not establish arbitrary-photo recognition, artistic quality or exhibition reliability.
+Coverage includes the generic fallback on three out-of-class photos, the wrong-recipe rejection on the cup study, opt-in enclosed-region cleanup, reversible reset, PNG download/alpha round-trip, invalid inputs, rapid sample switching, unsupported-mask recovery, both prepared-mask bottle recipes, calibrated phone/card uploads, local card corner proposals, curved-outline rejection, baseline restoration and 390px layout. Calibration uses translated/padded fixture photos, not new physical objects. Quantitative geometry checks do not establish arbitrary-photo recognition, artistic quality or exhibition reliability.

diff --git a/previews/input-tests/README.md b/previews/input-tests/README.md
@@ -7,6 +7,7 @@
 - `toy-cutout.png` / `toy-mask.png`: latest exported transparent image / grayscale alpha mask (the latter supersedes the early toy diagnostic mask).
 - `bridge-bottle*.png`: edited-mask-to-authored-evolution flow.
 - `reject-reasons.json` / `reject-reason.png`: per-condition rejection messages on the four out-of-class photos.
+- `generic-water.png`: an out-of-class photo evolving through the generic silhouette-driven recipe.
 - `cup-recipe-mismatch.png`: the cup photo rejected after picking a bottle recipe, naming the recipe that fits.
 - `calibrated-phone.png` / `calibrated-card.png`: translated/padded fixture calibration, not different real objects.
 
